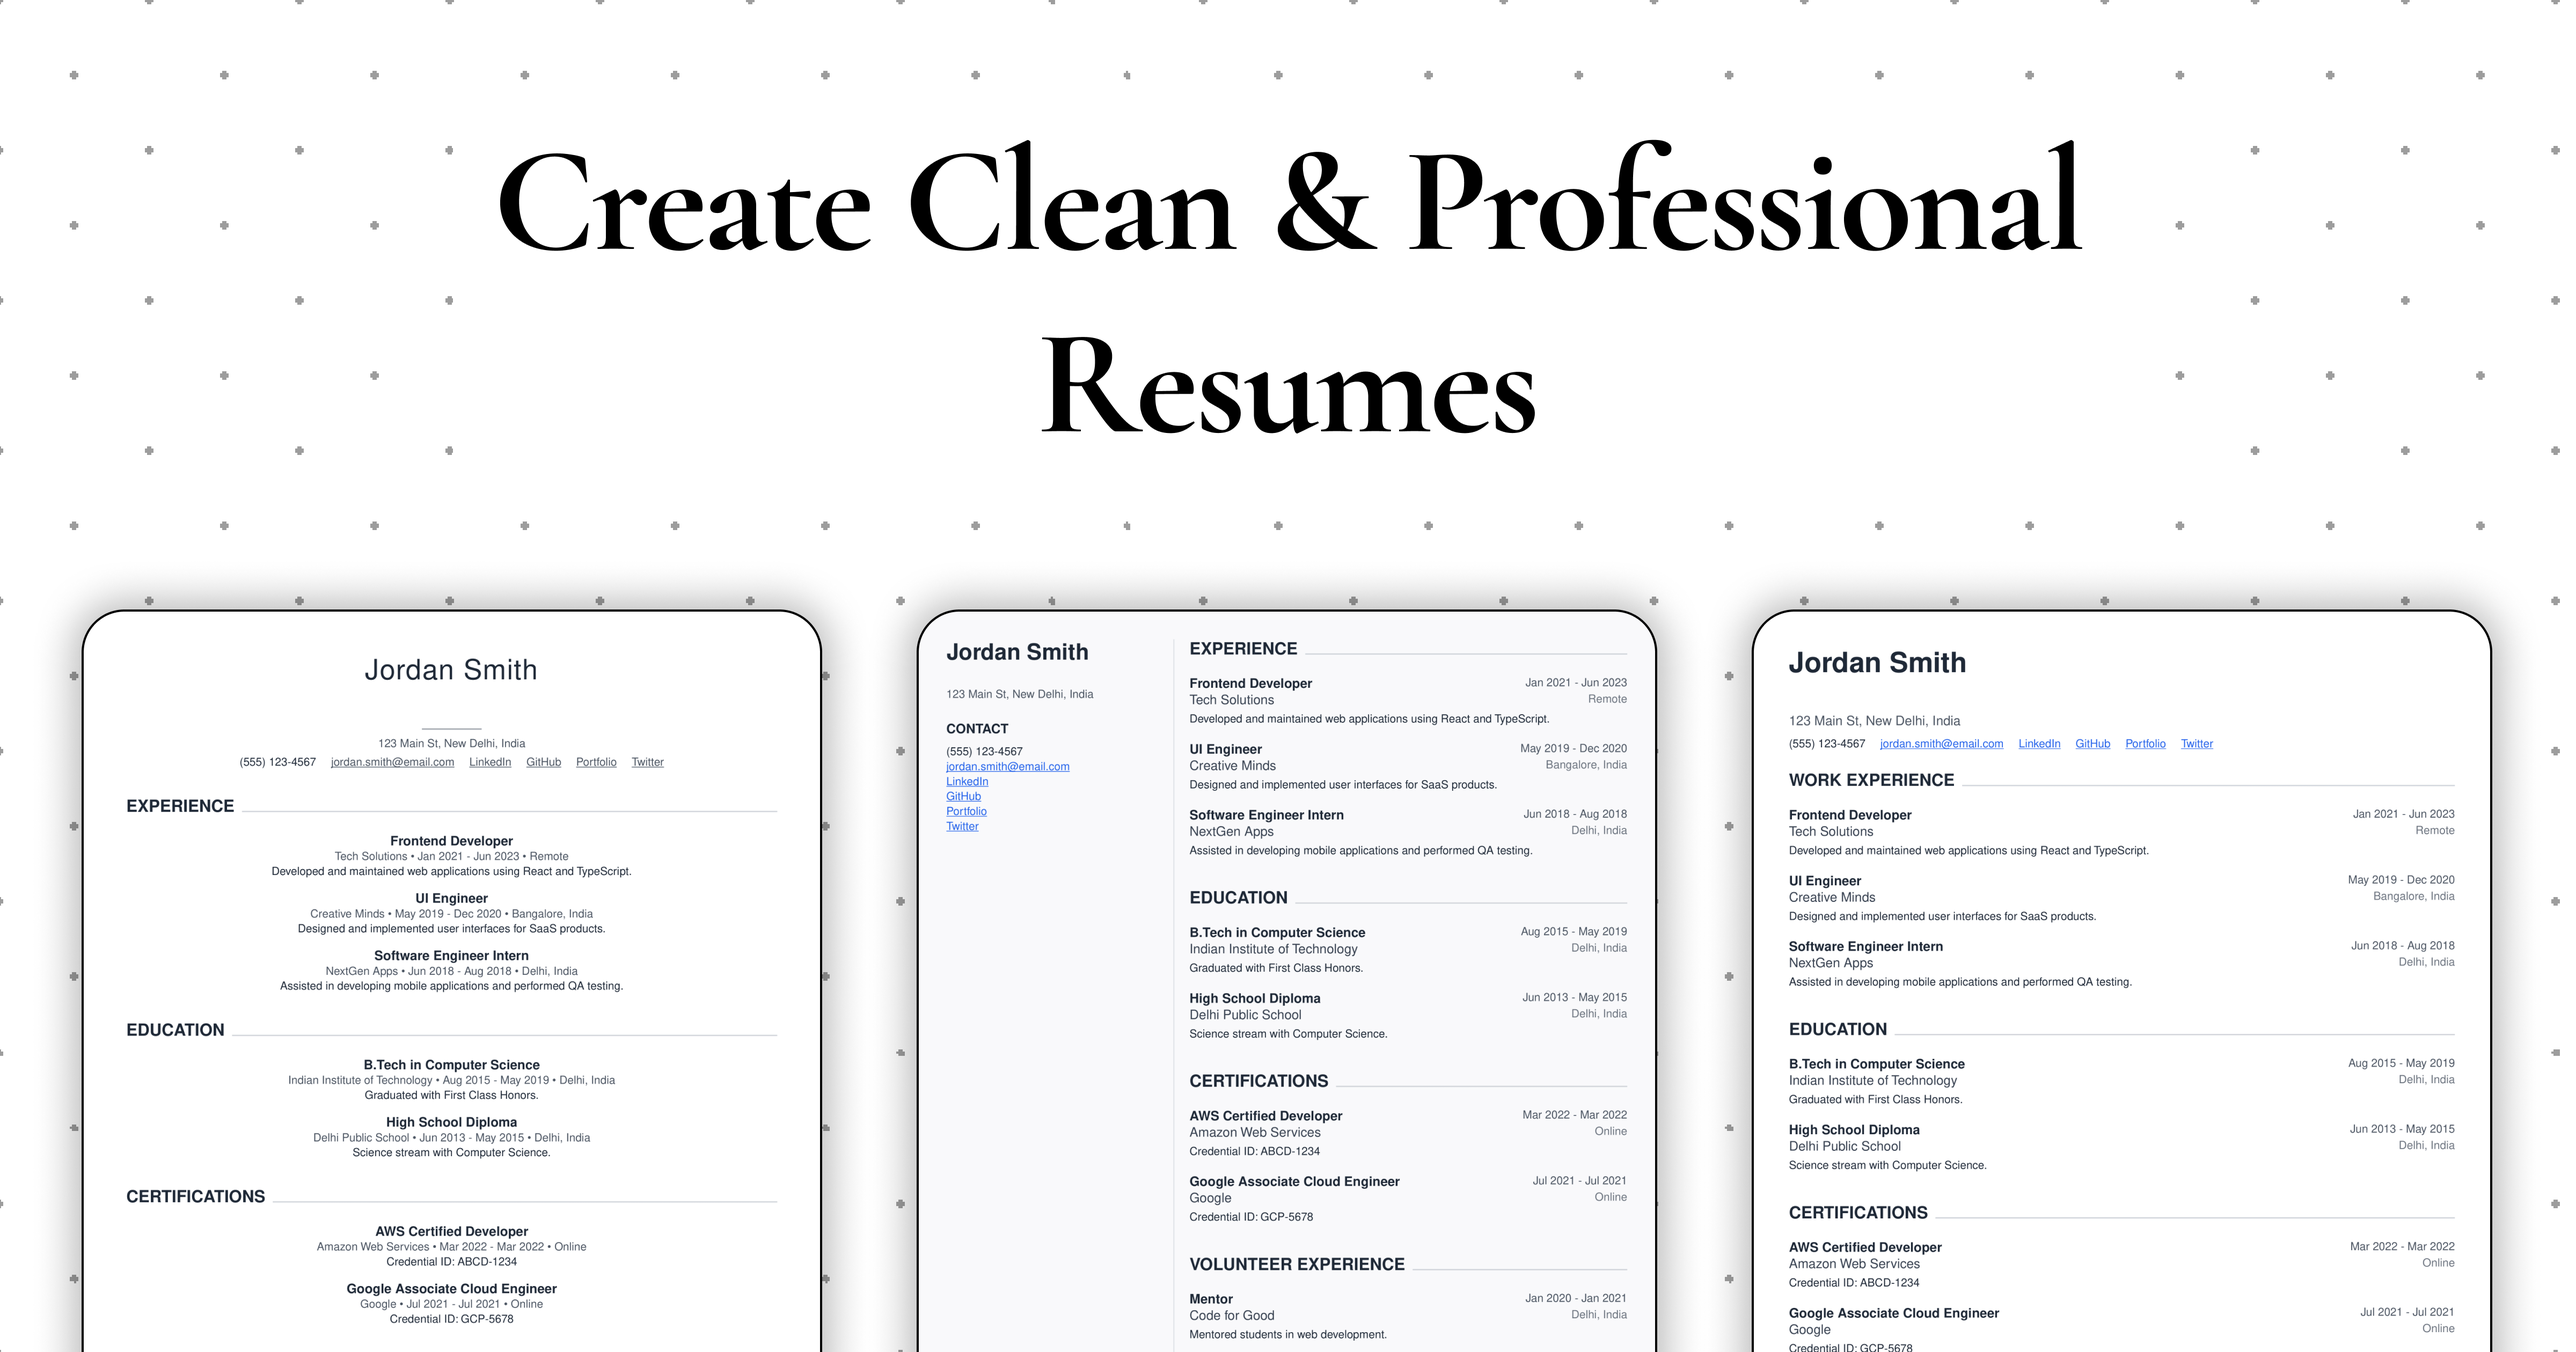
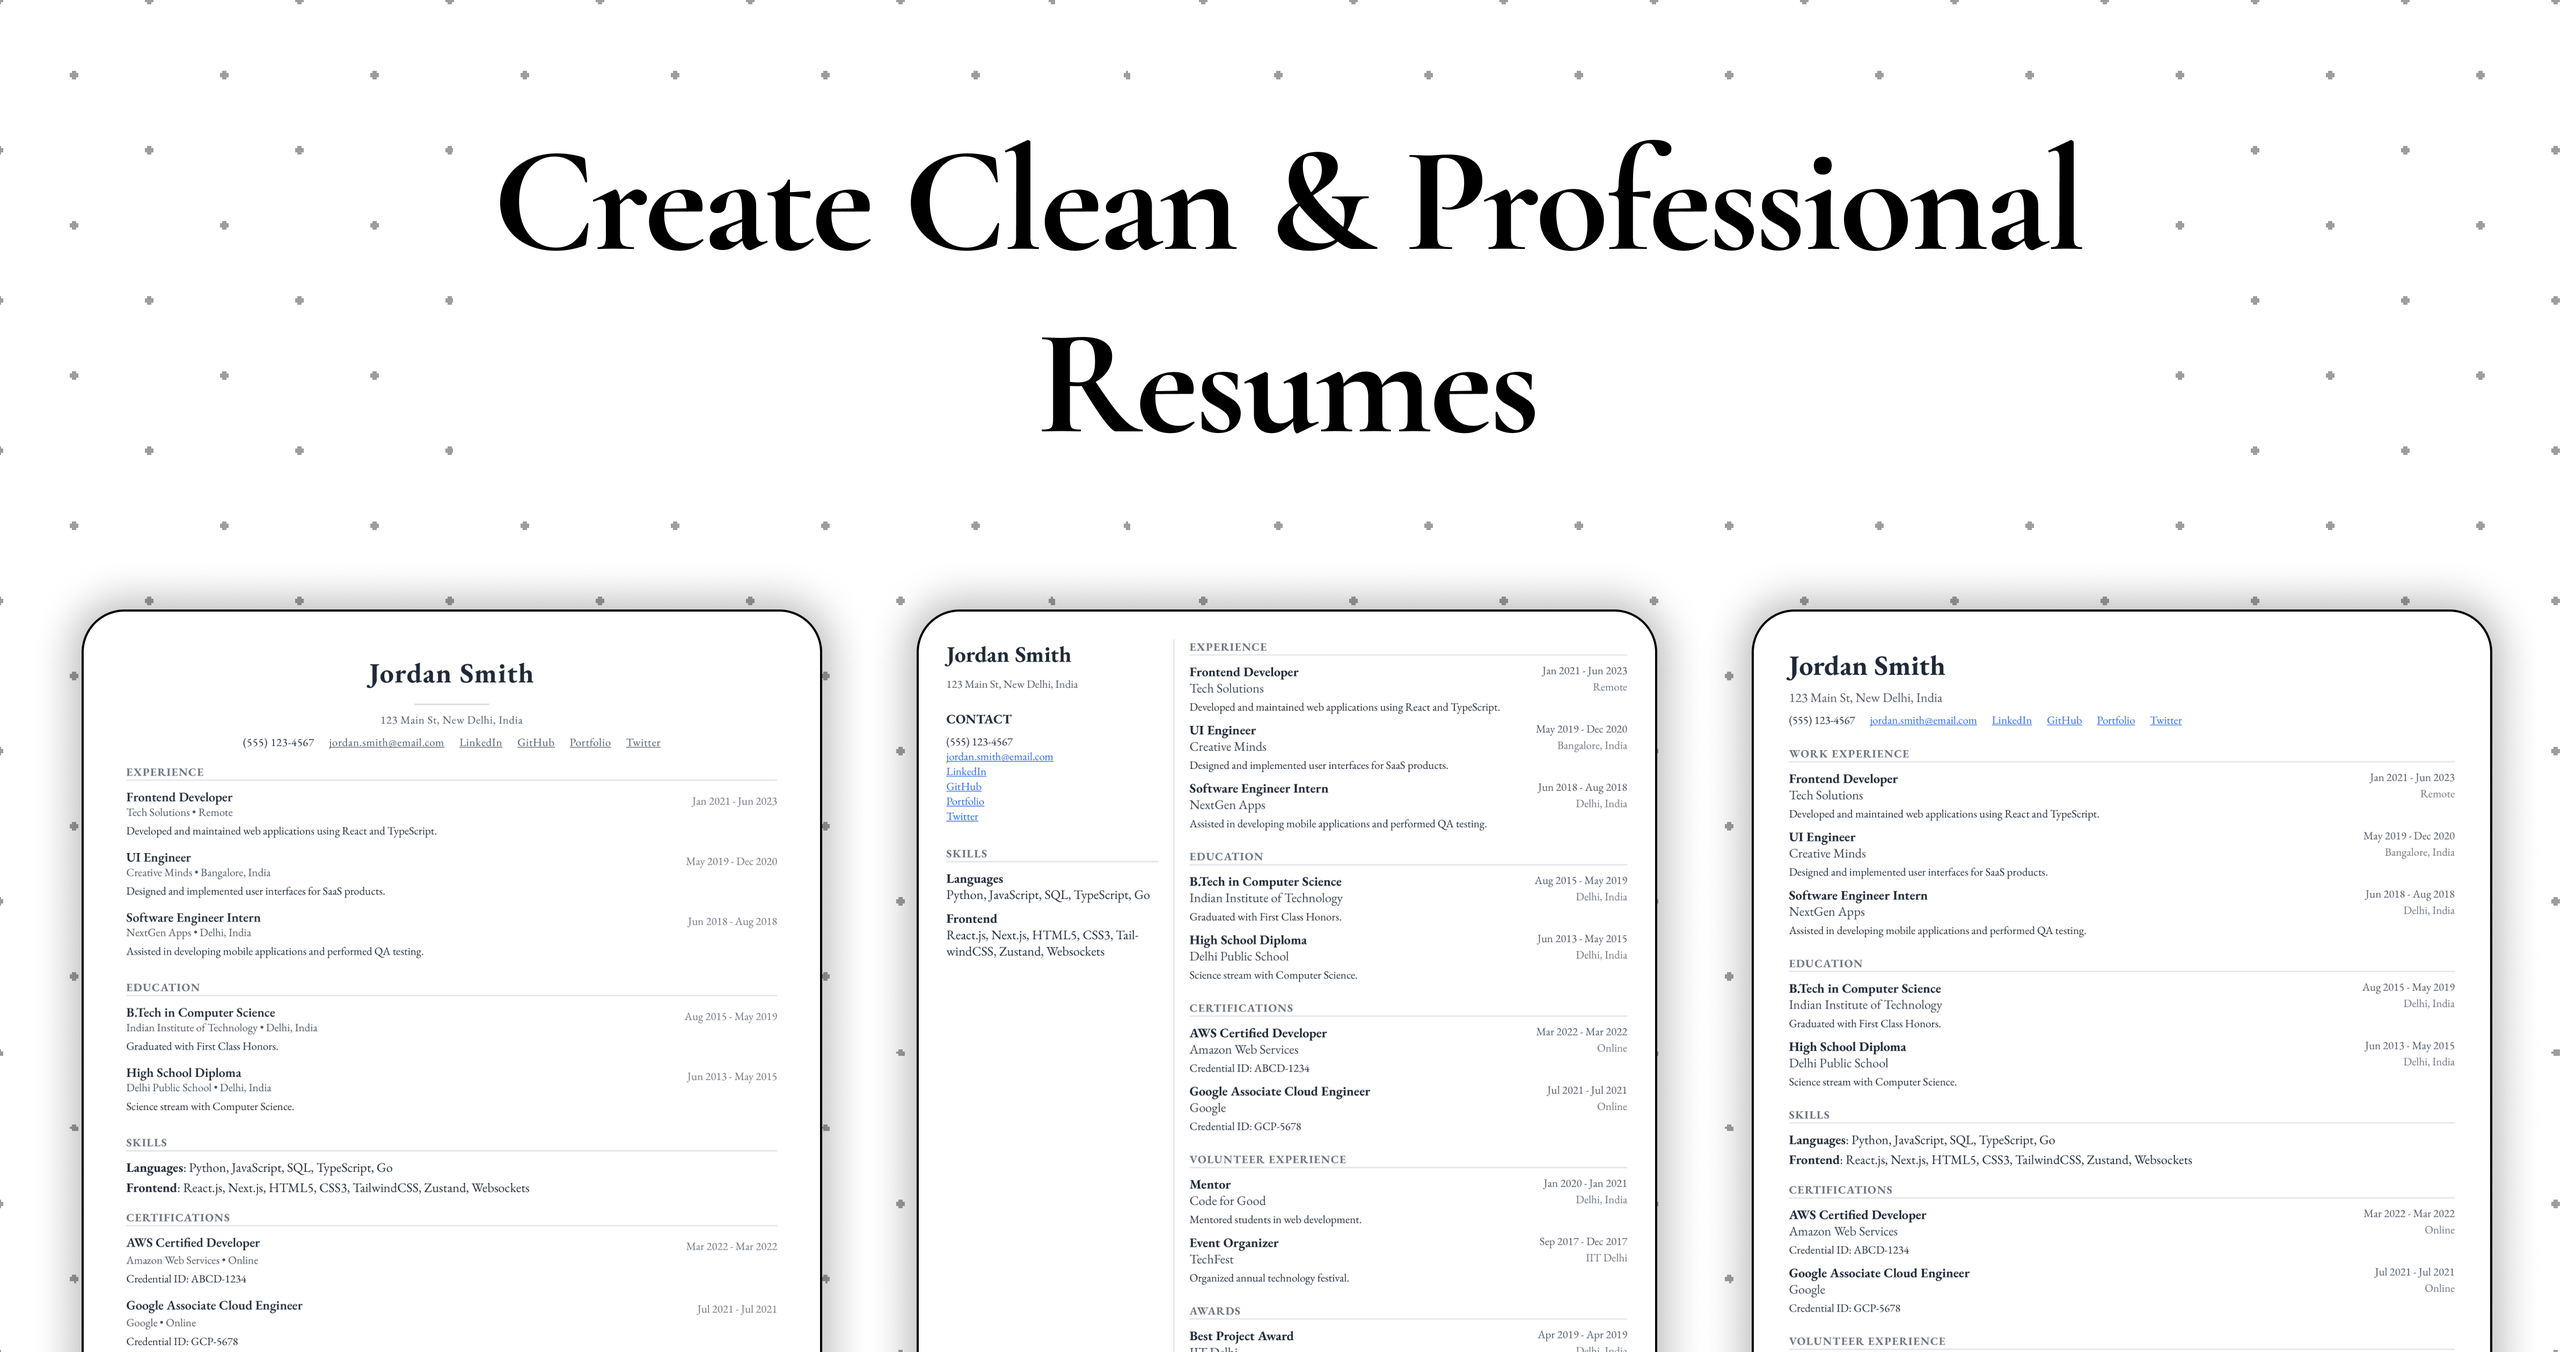
chore; updates on template style and demo images update

diff --git a/src/lib/resume-templates.tsx b/src/lib/resume-templates.tsx
@@ -160,7 +160,7 @@ const Section: FC<{ title: string; children: React.ReactNode }> = ({
   <View style={pdfTw("mb-3")}>
     <Text
       style={pdfTw(
-        "text-xs font-bold tracking-wider text-gray-500 mb-2 uppercase border-b border-gray-200 pb-1",
+        "text-xs font-bold tracking-wider text-gray-500 mb-2 uppercase border-b border-gray-200 pb-1"
       )}
     >
       {title}
@@ -177,7 +177,7 @@ const ExperienceItem: FC<{
   location?: string;
   details?: string;
 }> = ({ title, subtitle, period, location, details }) => (
-  <View style={pdfTw("mb-3")}>
+  <View style={pdfTw("mb-1")}>
     <View style={pdfTw("flex flex-row justify-between")}>
       <Text style={pdfTw("font-bold")}>{title}</Text>
       {period && (
@@ -211,7 +211,7 @@ export const ProfessionalResumeTemplate: FC<{ data: Partial<Resume> }> = ({
     >
       {/* Header */}
       <View style={pdfTw("mb-6")}>
-        <Text style={pdfTw("text-3xl font-bold text-primary mb-1")}>
+        <Text style={pdfTw("text-3xl font-bold text-primary leading-[1.5]")}>
           {data?.fullName || ""}
         </Text>
         <Text style={pdfTw("text-sm text-gray-600 mb-2")}>
@@ -309,17 +309,18 @@ export const ModernResumeTemplate: FC<{ data: Partial<Resume> }> = ({
   data,
 }) => (
   <Document>
-    <Page
-      size="A4"
-      style={pdfTw("p-8 font-default text-sm text-gray-800 bg-gray-50")}
-    >
+    <Page size="A4" style={pdfTw("p-8 font-default text-sm text-gray-800")}>
       {/* Two-column layout */}
       <View style={pdfTw("flex flex-row")}>
         {/* Left sidebar */}
         <View style={pdfTw("w-1/3 pr-4")}>
           {/* Profile */}
           <View style={pdfTw("mb-6")}>
-            <Text style={pdfTw("text-2xl font-bold text-primary mb-1")}>
+            <Text
+              style={pdfTw(
+                "text-2xl font-bold text-primary mb-1 leading-[1.5]"
+              )}
+            >
               {data?.fullName || ""}
             </Text>
             <Text style={pdfTw("text-xs text-gray-600")}>
@@ -435,17 +436,17 @@ export const MinimalResumeTemplate: FC<{ data: Partial<Resume> }> = ({
       style={pdfTw("p-12 font-default text-sm text-gray-800 bg-white")}
     >
       {/* Header */}
-      <View style={pdfTw("text-center mb-10")}>
+      <View style={pdfTw("text-center mb-5")}>
         <Text style={pdfTw("text-3xl  font-bold tracking-wider leading-[1.5]")}>
           {data?.fullName || ""}
         </Text>
-        <View style={pdfTw("h-px w-20 bg-gray-300 mx-auto my-2")} />
+        <View style={pdfTw("h-px w-20 mx-auto my-2")} />
         <Text style={pdfTw("text-xs text-gray-600 mb-3 tracking-wide")}>
           {data?.address || ""}
         </Text>
         <View
           style={pdfTw(
-            "flex flex-row justify-center flex-wrap gap-x-4 gap-y-1",
+            "flex flex-row justify-center flex-wrap gap-x-4 gap-y-1"
           )}
         >
           {data?.phoneNumber && (
@@ -552,7 +553,9 @@ export const MinimalResumeTemplate: FC<{ data: Partial<Resume> }> = ({
           {section.items.map((item, jdx) => (
             <View key={jdx} style={pdfTw("mb-3")}>
               <View
-                style={pdfTw("flex flex-row justify-between items-baseline")}
+                style={pdfTw(
+                  "flex flex-row justify-between items-baseline pb-[2px]"
+                )}
               >
                 <Text style={pdfTw("text-sm font-semibold")}>{item.title}</Text>
                 <Text style={pdfTw("text-xs text-gray-500")}>

diff --git a/src/components/resume/preview.tsx b/src/components/resume/preview.tsx
@@ -12,7 +12,12 @@ import type {
   ResumeSkill,
   WorkExperience,
 } from "@/types/form";
-import { LucideDownload, LucideEraser, LucideLoader2 } from "lucide-react";
+import {
+  LucideDownload,
+  LucideEraser,
+  LucideLoader2,
+  LucideUser,
+} from "lucide-react";
 import { dummyResume } from "@/lib/resume-templates";
 
 const PDF_VIEWER_PADDING = 8;
@@ -31,7 +36,7 @@ export const ResumePreview = () => {
 
   const [, setLocalResume] = useLocalStorage<Partial<Resume>>(
     "resume",
-    dummyResume,
+    dummyResume
   );
 
   useEffect(() => {
@@ -102,6 +107,20 @@ export const ResumePreview = () => {
           <LucideEraser />
           Reset
         </Button>
+
+        <Button
+          className="self-end"
+          size="sm"
+          onClick={() => {
+            for (const [k, v] of Object.entries(dummyResume)) {
+              setValue(k as keyof typeof dummyResume, v);
+            }
+          }}
+        >
+          <LucideUser />
+          Add Dummy
+        </Button>
+
         <Button
           size="sm"
           disabled={!pdfUrl}
@@ -109,7 +128,7 @@ export const ResumePreview = () => {
             if (!pdfUrl) return;
             e.preventDefault();
             const shouldContinue = window.confirm(
-              "If you like this project, please consider starring it on GitHub!\n\nWould you like to continue downloading your resume?",
+              "If you like this project, please consider starring it on GitHub!\n\nWould you like to continue downloading your resume?"
             );
             if (shouldContinue) {
               // Trigger download
